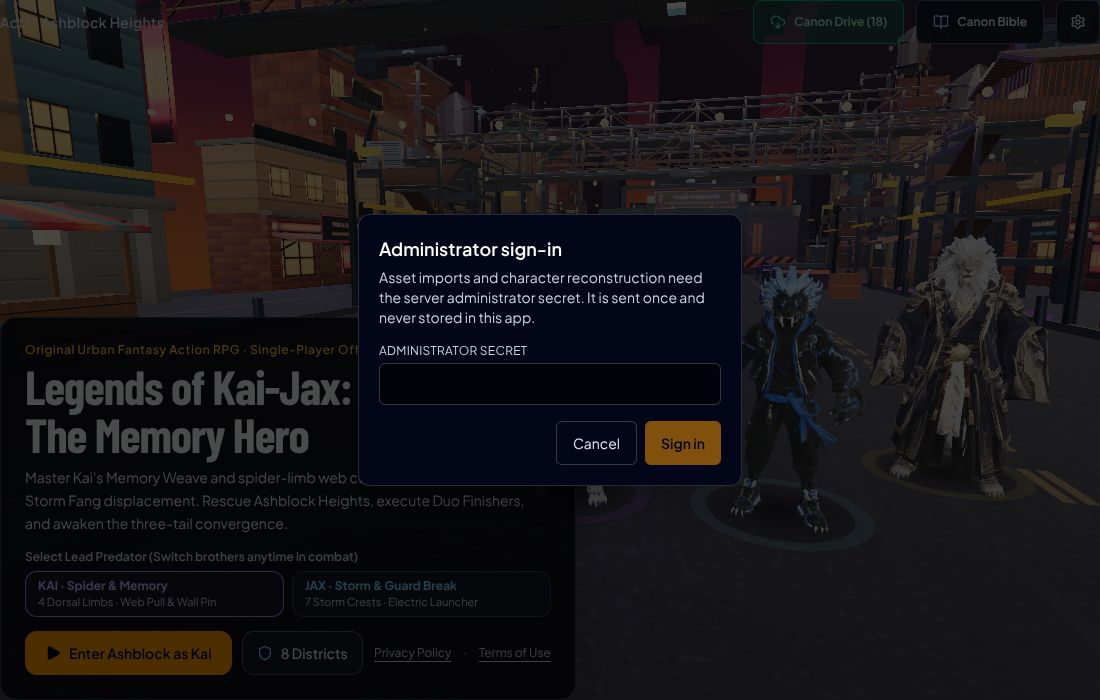
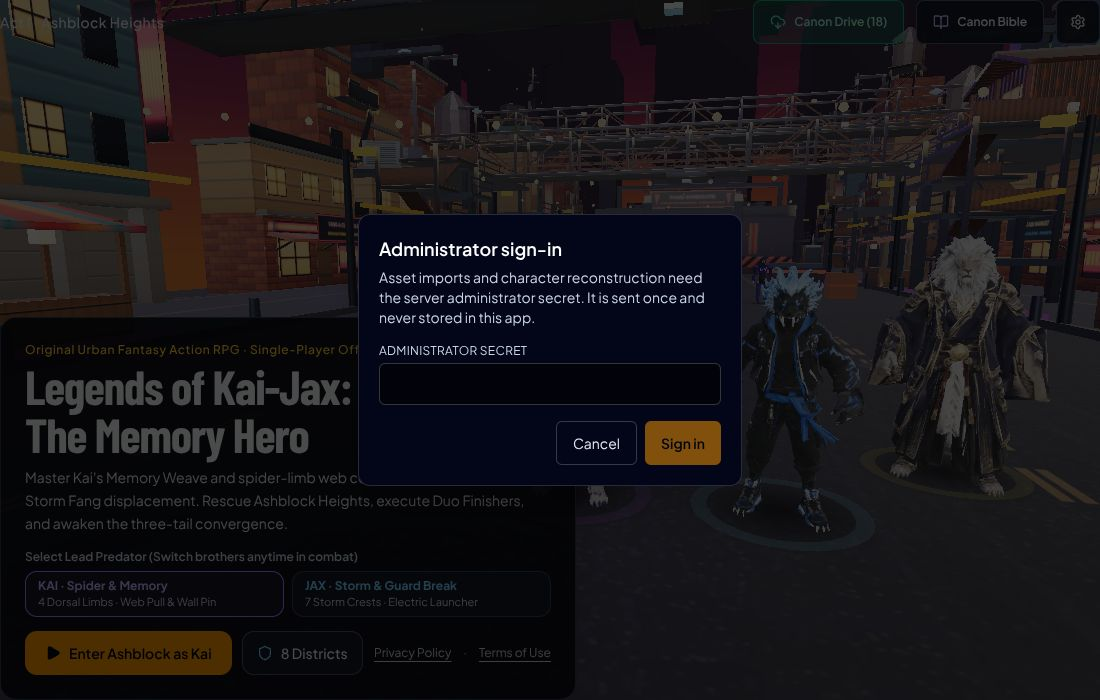
test(security): admin UI check uses a read-only probe route; audit log path default
The previous probe called the real vault clear route and touched the tracked manifest timestamp
(restored). The check now PATCHes a nonexistent asset id: authorized calls get 404, denied get 401/403.

Claude-Session: https://claude.ai/code/session_01TLsjpe2rvsiXNc3HbztuYp

diff --git a/apps/kaijax-android/server.ts b/apps/kaijax-android/server.ts
@@ -21,6 +21,7 @@ async function createServer() {
     appRoot: __dirname,
     adminToken: process.env.KAIJAX_ADMIN_TOKEN,
     production,
+    auditLogPath: process.env.KAIJAX_ADMIN_AUDIT_LOG || path.join(__dirname, 'data', 'admin-audit.log'),
   });
 
   // Mount Vite middleware in dev (with HMR & WebSocket server disabled for Cloud Run / iframe stability), or serve static dist/ in production
